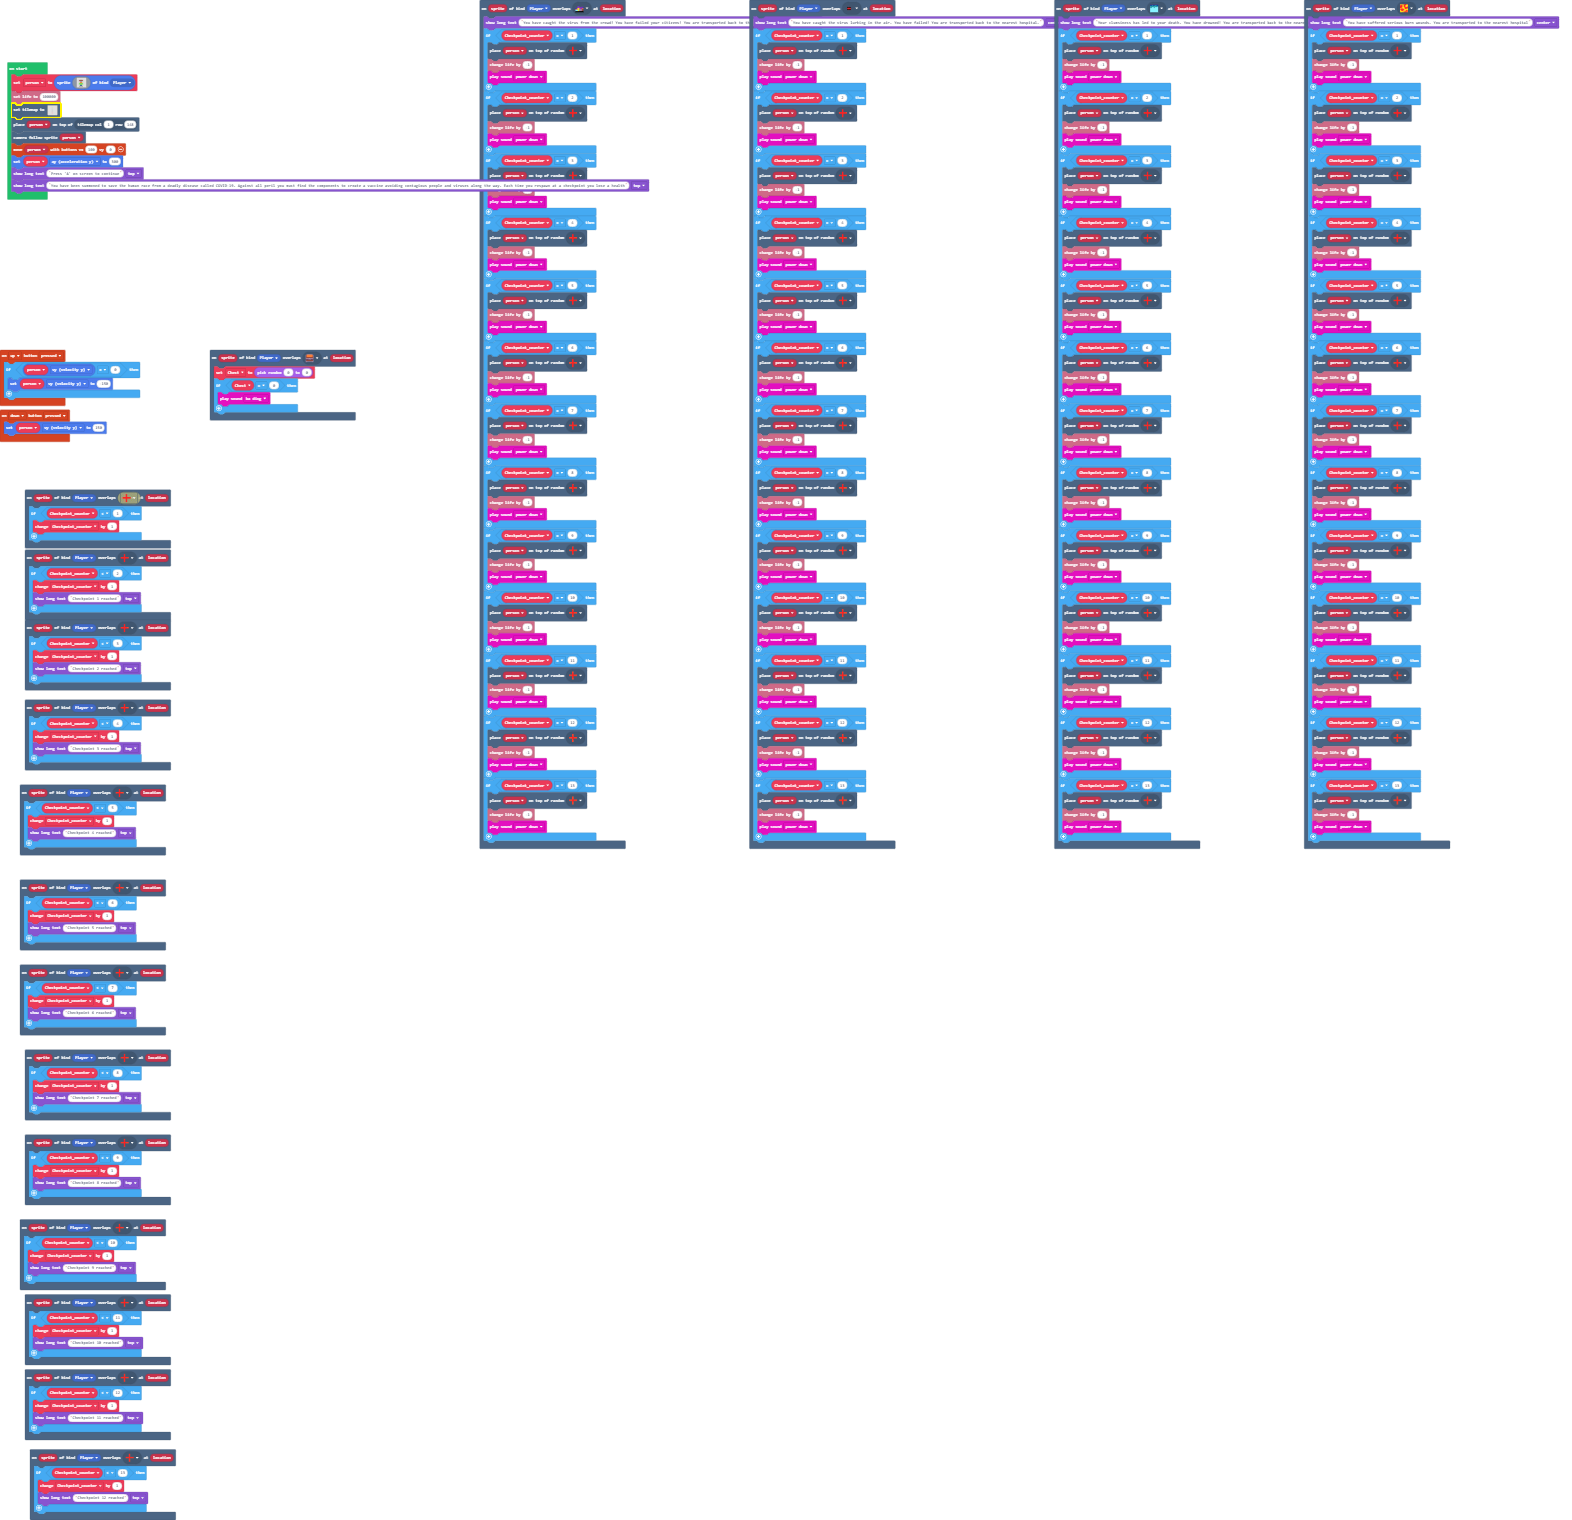
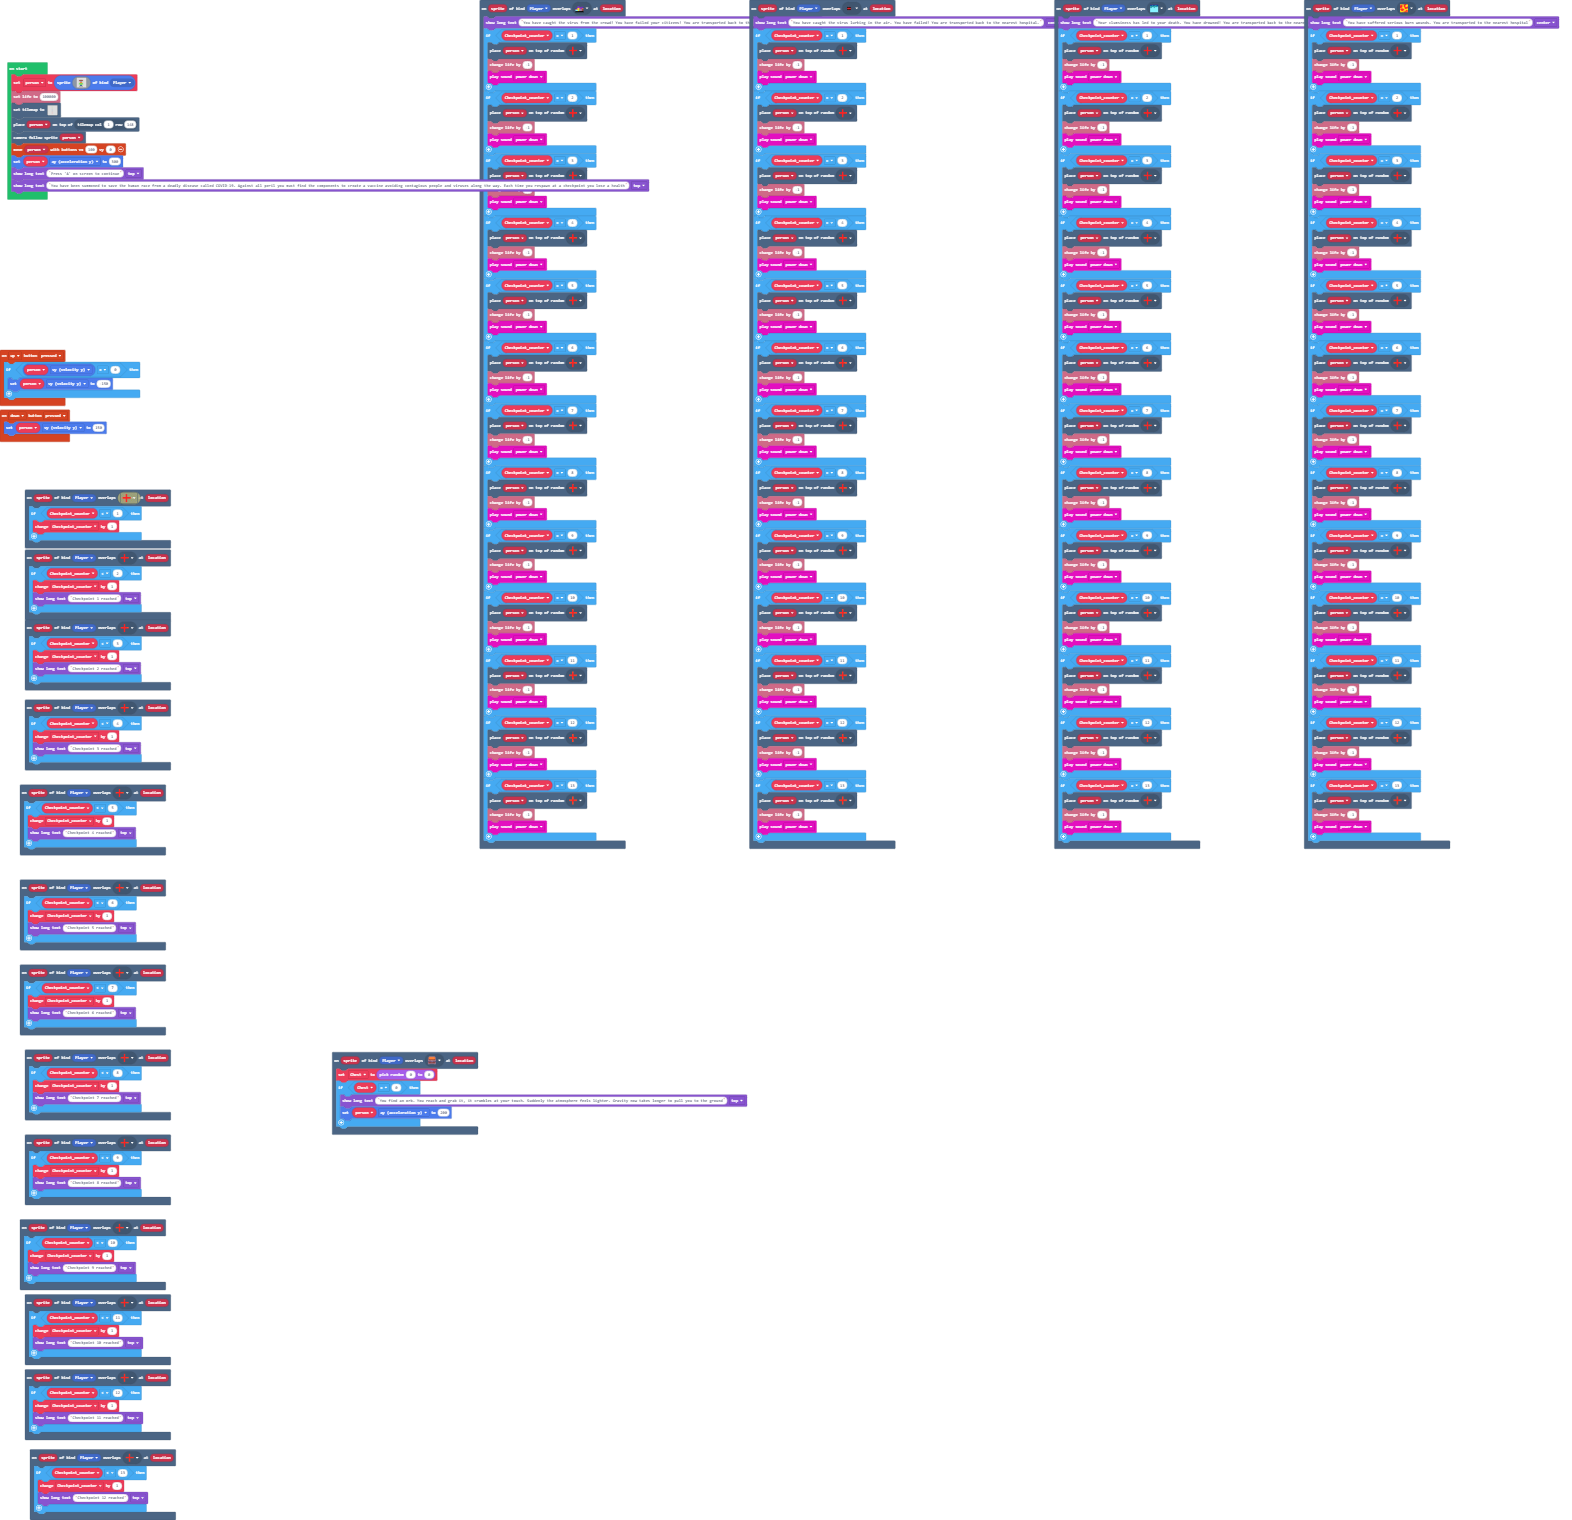
Chest?

Changed region(s): [[0.187, 0.6803, 0.4676, 0.773], [0.1247, 0.2164, 0.2494, 0.2783]]

diff --git a/main.ts b/main.ts
@@ -136,7 +136,8 @@ scene.onOverlapTile(SpriteKind.Player, myTiles.tile17, function (sprite, locatio
 scene.onOverlapTile(SpriteKind.Player, sprites.dungeon.chestClosed, function (sprite, location) {
     Chest = randint(0, 0)
     if (Chest == 0) {
-        music.baDing.play()
+        game.showLongText("You find an orb. You reach and grab it, it crumbles at your touch. Suddenly the atmosphere feels lighter. Gravity now takes longer to pull you to the ground", DialogLayout.Top)
+        person.ay = 200
     }
 })
 scene.onOverlapTile(SpriteKind.Player, sprites.dungeon.hazardLava1, function (sprite, location) {
